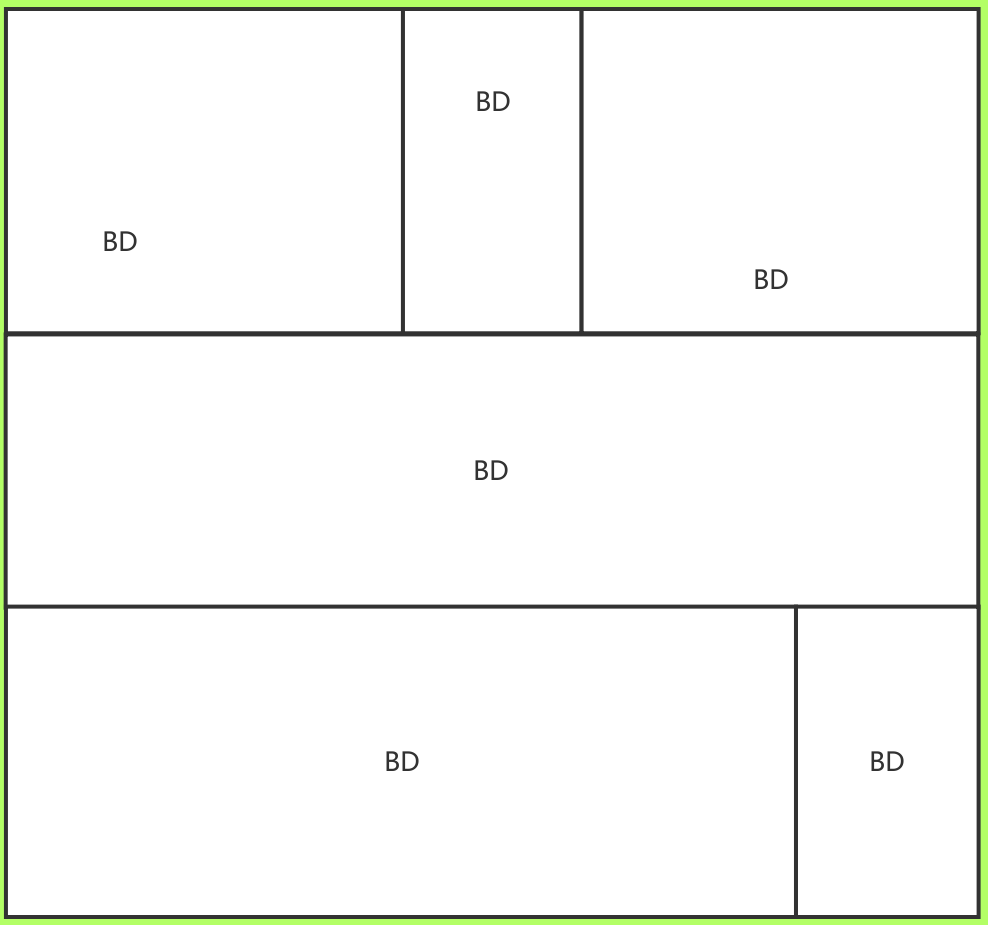
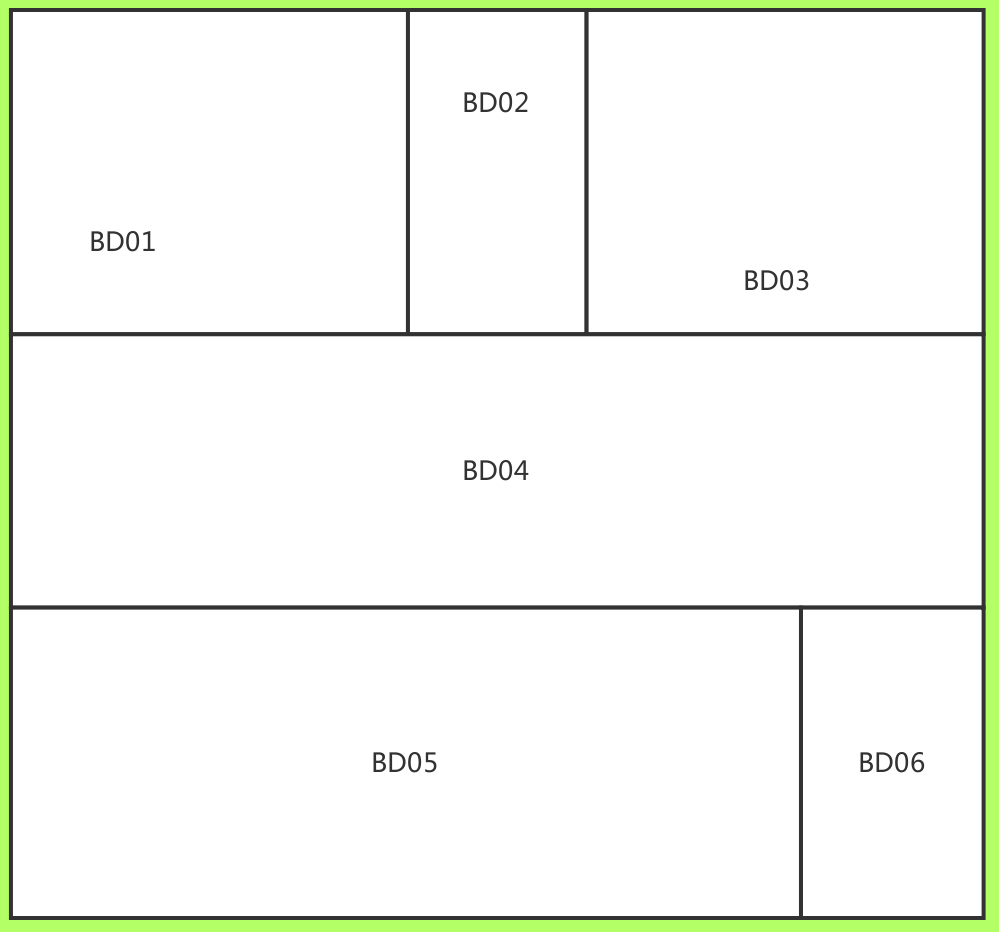
NewImageToHtmlArea.py写成了一个类，并增加了靶向区域识别,防止重复区域产生

diff --git a/ImageToHtmlArea/11.html b/ImageToHtmlArea/11.html
@@ -1,11 +1,11 @@
 <html>
 <img src="11.png" alt="" usemap="#Map" />
 <map name="Map" id="Map">
-	<area alt="" title="" href="#" shape="poly" coords="404,10,404,331,579,331,579,10" />
-	<area alt="" title="" href="#" shape="poly" coords="7,10,7,331,400,331,400,10" />
-	<area alt="" title="" href="#" shape="poly" coords="583,10,583,331,976,331,976,10" />
-	<area alt="" title="" href="#" shape="poly" coords="7,336,7,604,976,604,976,336" />
-	<area alt="" title="" href="#" shape="poly" coords="7,608,7,915,793,915,793,608" />
-	<area alt="" title="" href="#" shape="poly" coords="797,608,797,915,976,915,976,608" />
+	<area alt="" title="BDO2" href="#" shape="poly" coords="409,11,409,332,584,332,584,11" />
+	<area alt="" title="BDO1" href="#" shape="poly" coords="12,11,12,332,405,332,405,11" />
+	<area alt="" title="BDO3" href="#" shape="poly" coords="588,11,588,332,981,332,981,11" />
+	<area alt="" title="BDO4" href="#" shape="poly" coords="12,336,12,605,981,605,981,336" />
+	<area alt="" title="BDO5" href="#" shape="poly" coords="12,609,12,916,798,916,798,609" />
+	<area alt="" title="BDO6" href="#" shape="poly" coords="802,609,802,916,981,916,981,609" />
 </map>
 </html>

diff --git a/ImageToHtmlArea/NewImageToHtmlArea.py b/ImageToHtmlArea/NewImageToHtmlArea.py
@@ -1,0 +1,94 @@
+#!/usr/bin/env python
+#coding:utf-8
+#code by struggle
+
+import cv2
+import numpy as np
+import pytesseract
+from PIL import Image
+import sys
+
+class ImageToHtmlArea(object):
+    def __init__(self, image, target_image, value):
+        self.image = image
+        self.img_rgb = cv2.imread(image)
+        self.img_gray = cv2.cvtColor(self.img_rgb, cv2.COLOR_BGR2GRAY)
+        self.template = cv2.imread(target_image,0)
+        self.w, self.h = self.template.shape[::-1]
+        self.threshold = value
+        self.dictinfo = {}
+
+    def __getstr(self,info):
+            if info:
+                tmp_image = self.img_gray[info[1]:info[1]+ self.h, info[0]:info[0] + self.w + self.w]
+                cv2.imwrite("tmp.png",tmp_image)
+                tmp_image = cv2.imread("tmp.png")
+                text = pytesseract.image_to_string(tmp_image, config='--psm 7')
+                return text
+
+    def __getzoneinfo(self,info):
+            l, u, r, d = left, up, right, down = info[0], info[1], info[0] + self.w, info[1] + self.h
+            while l > 0:
+                if self.img_gray[up, l] == 0 or self.img_gray[up, l] != 255:
+                    #print(l)
+                    break
+                l = l - 1
+            while u > 0:
+                if self.img_gray[u, left] == 0 or self.img_gray[u, left] !=255 :
+                    #print(u)
+                    break
+                u = u - 1
+            while r > 0:
+                if self.img_gray[down, r] == 0 or self.img_gray[down, r] != 255:
+                    #print(r)
+                    break
+                r = r + 1
+            while d > 0:
+                if self.img_gray[d, right] == 0 or self.img_gray[d, right] != 255:
+                    #print(d)
+                    break
+                d = d + 1
+            maplist = ",".join([str(l),str(u),str(l),str(d),str(r),str(d),str(r),str(u)])
+            return maplist
+            
+
+    def match_img(self):
+        #zb = (434, 539)
+        #print(self.__getstr(zb))
+        res = cv2.matchTemplate(self.img_gray,self.template,cv2.TM_CCOEFF_NORMED)
+        loc = np.where( res >= self.threshold)
+        for pt in zip(*loc[::-1]):
+            getstrinfo = self.__getstr(pt)
+            a = getstrinfo[2]
+            print(a.isdigit())
+            if getstrinfo[0:4] not in self.dictinfo: # and getstrinfo[2].isdigit():
+                self.dictinfo[getstrinfo[0:4]] = pt
+        print(self.dictinfo)
+    
+    def gethotarea(self):
+        for k, v in self.dictinfo.items():
+            #print(k + " " + self.__getzoneinfo(v))
+            print('<area alt="" title="%s" href="#" shape="poly" coords="%s" />' % (k, self.__getzoneinfo(v)))
+
+
+if __name__ == "__main__":
+    a = ImageToHtmlArea("11.png", "22.png", 0.9)
+    a.match_img()
+    a.gethotarea()
+
+
+
+"""
+<html>
+<img src="11.png" alt="" usemap="#Map" />
+<map name="Map" id="Map">
+    打印出来的东西贴这里
+</map>
+</html>
+"""
+
+
+
+
+
+
